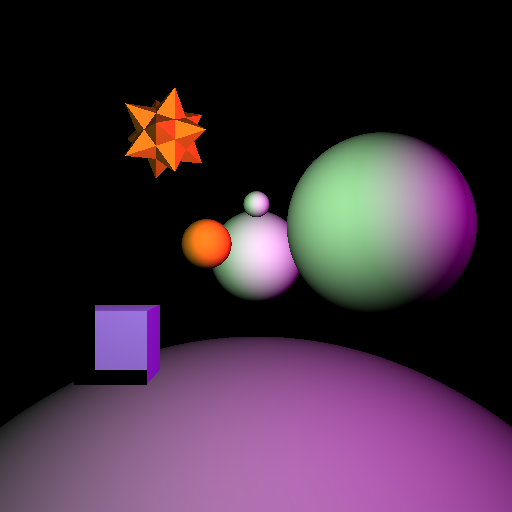
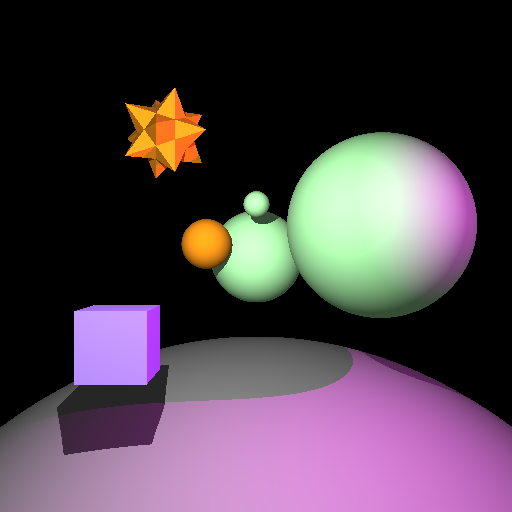
fix shading

diff --git a/cs488/A4/A4.cpp b/cs488/A4/A4.cpp
@@ -6,12 +6,10 @@ using namespace glm;
 using namespace std;
 
 #include "A4.hpp"
-#include "GeometryNode.hpp"
 #include "PhongMaterial.hpp"
 
 #define PI 3.14159
-#define EPSILON 1.0e-10
-static double *depth_buffer;
+#define EPSILON 1.0e-2
 
 void A4_Render(
 		// What to render
@@ -30,12 +28,7 @@ void A4_Render(
 		const glm::vec3 & ambient,
 		const std::list<Light *> & lights
 ) {
-	depth_buffer = new double[(int)(image.width()*image.height())];
-	for (int i = 0; i < image.width()*image.height(); i++) {
-		depth_buffer[i] = HUGE_VAL;
-	}
  	A4_Render_rec(root, image, eye, view, up, fovy, ambient, lights);
-	delete [] depth_buffer;
 }
 
 void A4_Render_rec(
@@ -57,50 +50,42 @@ void A4_Render_rec(
 ) {
 
   // Fill in raytracing code here...
-	if ( root -> m_nodeType == NodeType::GeometryNode ){
-		GeometryNode * gnode = static_cast<GeometryNode *>(root);
-		Primitive *prim = gnode->m_primitive;
-		PhongMaterial * mat = static_cast<PhongMaterial *>(gnode->m_material);
-		cout << "gnode->m_material: " << glm::to_string(mat->m_kd) << endl;
+	//if ( root -> m_nodeType == NodeType::GeometryNode ){
+		// GeometryNode * gnode = static_cast<GeometryNode *>(root);
+		// Primitive *prim = gnode->m_primitive;
+		// PhongMaterial * mat = static_cast<PhongMaterial *>(gnode->m_material);
+		//cout << "gnode->m_material: " << glm::to_string(mat->m_kd) << endl;
 		// generate rays
 		vec3 right = glm::normalize(glm::cross(view, up));
 		vec3 ray_dir = vec3(1.0);
 		vec3 normal;
+		GeometryNode *obj;
 		double w = image.width();
 		double h = image.height();
 		double t;
 		double pixsize_over_d = 2.0 * tan(fovy*PI/(2.0*180.0)) / h;
-		// cout << "pixsize_over_d: " << pixsize_over_d << endl;
 		for (int i = 0; i < w; i++) {
 			for (int j = 0; j < h; j++) {
 				ray_dir = ((-w/2.0 + i)*right + (h/2.0 - j)*up) *
 					pixsize_over_d + view;
-				// cout << glm::to_string(ray_dir) << endl;
 				ray_dir = glm::normalize(ray_dir);
-				bool intersect = prim->intersect(eye, ray_dir, &t, &normal);
-				if (intersect) {
-					int index = (j-1)*(int)w+i;
-					// check if intersection is in the front
-					if (t < depth_buffer[index]) {
-						depth_buffer[index] = t;
+				t = HUGE_VAL;
+				A4_Render_pixel_rec (root, eye, ray_dir, &t, &normal, &obj);
+				// if intersect object
+				if (t < HUGE_VAL) {
 						// get color
 						vec3 intersection = eye + t*ray_dir;
 						vec3 color = getColor(root, intersection, normal,
-							ambient, lights, ray_dir, gnode->m_material);
+							ambient, lights, ray_dir, obj->m_material);
 						for (int k = 0; k < 3; k++) {
 								image((uint)i, (uint)j, k) = color[k];
 						}
-					}
 				}
 			}
 		}
-	}
-	for (SceneNode *child : root->children) {
-		A4_Render_rec(child, image, eye, view, up, fovy, ambient, lights);
-	}
 }
 
-bool A4_Render_pixel_rec(
+void A4_Render_pixel_rec(
 		// What to render
 		SceneNode * root,
 
@@ -108,19 +93,23 @@ bool A4_Render_pixel_rec(
 		const glm::vec3 & start,
 		const glm::vec3 & ray_dir,
 		double *t,
-		vec3 *n
+		vec3 *n,
+		GeometryNode ** obj
 ) {
 	if ( root -> m_nodeType == NodeType::GeometryNode ){
 		GeometryNode * gnode = static_cast<GeometryNode *>(root);
 		Primitive *prim = gnode->m_primitive;
-		double t_test;
-		bool intersect = prim->intersect(start, ray_dir, &t_test, n);
+		double t_test = HUGE_VAL;
+		vec3 normal;
+		bool intersect = prim->intersect(start, ray_dir, &t_test, &normal);
 		if (intersect && t_test < *t) {
 			*t = t_test;
+			*obj = gnode;
+			*n = normal;
 		}
-		for (SceneNode *child : root->children) {
-			intersect = A4_Render_pixel_rec(child, start, ray_dir, t, n);
-		}
+	}
+	for (SceneNode *child : root->children) {
+		A4_Render_pixel_rec(child, start, ray_dir, t, n, obj);
 	}
 }
 
@@ -135,21 +124,27 @@ glm::vec3 getColor (
 		PhongMaterial * mat = static_cast<PhongMaterial *>(material);
 		vec3 to_light_dir, start, n;
 		vec3 color = vec3(0.0, 0.0, 0.0);
-		double normal_light_angle, t;
+		double normal_light_angle;
+		double t = HUGE_VAL;
+		GeometryNode *node;
 		for (Light *light : lights) {
 			to_light_dir = glm::normalize(light->position - intersection);
 			// test if facing light
 			double normal_dot_light = glm::dot(to_light_dir, normal);
 			if (normal_dot_light > 0) {
 				// test if light is blocked
-				start = intersection + EPSILON * to_light_dir;
-				if (!A4_Render_pixel_rec (root, start, to_light_dir, &t, &n)) {
-					// cout << "mat color: " << glm::to_string(light->colour) << endl;;
+				start = intersection + EPSILON*to_light_dir;
+				t = HUGE_VAL;
+				A4_Render_pixel_rec (root, start, to_light_dir, &t, &n, &node);
+
+				if (t == HUGE_VAL) {
 					color += light->colour * mat->m_kd * normal_dot_light;
 				} else {
-					cout << "in shadow!!" << endl;
+					// cout << "t: " << t << endl;
+					// cout << "in shadow" << endl;
 				}
 			}
 		}
+		color += ambient * mat->m_kd;
 		return color;
 }

diff --git a/cs488/A4/Primitive.cpp b/cs488/A4/Primitive.cpp
@@ -32,16 +32,28 @@ bool NonhierSphere::intersect(vec3 eye, vec3 ray_dir, double *t, vec3 *n) {
   double B = 2.0*glm::dot(ray_dir, (eye-m_pos));
   double C = pow(glm::length(eye-m_pos),2.0) - pow(m_radius,2.0);
   double roots[2];
+  double s_root, b_root;
   size_t num_roots = quadraticRoots(A,B,C,roots);
   if (num_roots == 1) {
     *t = roots[0];
   } else if (num_roots == 2) {
-    *t = std::fmin(roots[0],roots[1]);
+    s_root = std::fmin(roots[0],roots[1]);
+    b_root = std::fmax(roots[0],roots[1]);
+    if (b_root < 0) {
+      return false;
+    } else if (s_root < 0 && b_root >= 0){
+      *t = b_root;
+    } else if (s_root >= 0) {
+      *t = s_root;
+    }
   } else {
     return false;
   }
-  *n = glm::normalize(eye + (float)(*t)*ray_dir - m_pos);
-  return true;
+  if (*t > 0) {
+    *n = glm::normalize(eye + (float)(*t)*ray_dir - m_pos);
+    return true;
+  }
+  return false;
 }
 
 NonhierBox::~NonhierBox()
@@ -62,43 +74,55 @@ bool NonhierBox::intersect(vec3 eye, vec3 ray_dir, double *t, vec3 *n) {
   t_test = (zmin - eye[2]) / ray_dir[2];
   p_istn = eye+ray_dir*(float)t_test;
   if (isWithin(p_istn[0], p_istn[1], xmin, ymin, xmax, ymax)) {
-    *t = std::fmin(*t, t_test);
-    *n = vec3(0.0, 0.0, -1.0);
+    if (t_test < *t && t_test > 0) {
+      *t = t_test;
+      *n = vec3(0.0, 0.0, -1.0);
+    }
   }
   // z max fixed
   t_test = (zmax - eye[2]) / ray_dir[2];
   p_istn = eye+ray_dir*(float)t_test;
   if (isWithin(p_istn[0], p_istn[1], xmin, ymin, xmax, ymax)) {
-    *t = std::fmin(*t, t_test);
-    *n = vec3(0.0, 0.0, 1.0);
+    if (t_test < *t && t_test > 0) {
+      *t = t_test;
+      *n = vec3(0.0, 0.0, +1.0);
+    }
   }
   // y min Fixed
   t_test = (ymin - eye[1]) / ray_dir[1];
   p_istn = eye+ray_dir*(float)t_test;
   if (isWithin(p_istn[0], p_istn[2], xmin, zmin, xmax, zmax)) {
-    *t = std::fmin(*t, t_test);
-    *n = vec3(0.0, -1.0, 0.0);
+    if (t_test < *t && t_test > 0) {
+      *t = t_test;
+      *n = vec3(0.0, -1.0, 0.0);
+    }
   }
   // y max Fixed
   t_test = (ymax - eye[1]) / ray_dir[1];
   p_istn = eye+ray_dir*(float)t_test;
   if (isWithin(p_istn[0], p_istn[2], xmin, zmin, xmax, zmax)) {
-    *t = std::fmin(*t, t_test);
-    *n = vec3(0.0, 1.0, 0.0);
+    if (t_test < *t && t_test > 0) {
+      *t = t_test;
+      *n = vec3(0.0, 1.0, 0.0);
+    }
   }
   // x min Fixed
   t_test = (xmin - eye[0]) / ray_dir[0];
   p_istn = eye+ray_dir*(float)t_test;
   if (isWithin(p_istn[1], p_istn[2], ymin, zmin, ymax, zmax)) {
-    *t = std::fmin(*t, t_test);
-    *n = vec3(-1.0, 0.0, 0.0);
+    if (t_test < *t && t_test > 0) {
+      *t = t_test;
+      *n = vec3(-1.0, 0.0, 0.0);
+    }
   }
   // x max Fixed
   t_test = (xmax - eye[0]) / ray_dir[0];
   p_istn = eye+ray_dir*(float)t_test;
   if (isWithin(p_istn[1], p_istn[2], ymin, zmin, ymax, zmax)) {
-    *t = std::fmin(*t, t_test);
-    *n = vec3(1.0, 0.0, 0.0);
+    if (t_test < *t && t_test > 0) {
+      *t = t_test;
+      *n = vec3(1.0, 0.0, 0.0);
+    }
   }
   if (*t < HUGE_VAL) {
     return true;

diff --git a/cs488/A4/A4.hpp b/cs488/A4/A4.hpp
@@ -5,6 +5,7 @@
 #include <glm/glm.hpp>
 
 #include "SceneNode.hpp"
+#include "GeometryNode.hpp"
 #include "Light.hpp"
 #include "Image.hpp"
 
@@ -52,3 +53,14 @@ glm::vec3 getColor (
 	const std::list<Light *> & lights,
 	const vec3 & ray_dir,
 	Material *material);
+
+void A4_Render_pixel_rec(
+		// What to render
+		SceneNode * root,
+		// Viewing parameters
+		const glm::vec3 & start,
+		const glm::vec3 & ray_dir,
+		double *t,
+		vec3 *n,
+		GeometryNode **obj
+);

diff --git a/cs488/A4/Mesh.cpp b/cs488/A4/Mesh.cpp
@@ -88,6 +88,9 @@ bool Mesh::intersectTriangle(vec3 eye, vec3 ray_dir, double *t, Triangle triangl
 	}
 	double detT = glm::determinant(mat3(col1, col2, X));
 	*t = detT / detA;
-	*n = glm::normalize(glm::cross(col1, col2));
-	return true;
+	if (*t > 0) {
+		*n = glm::normalize(glm::cross(col1, col2));
+		return true;
+	}
+	return false;
 }
